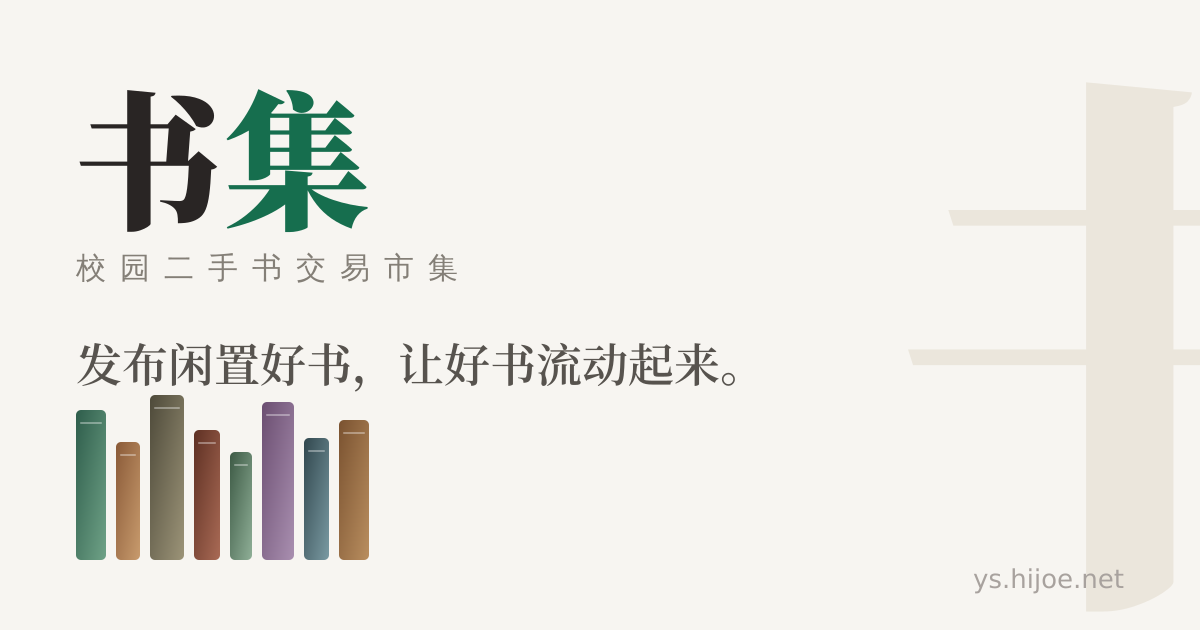
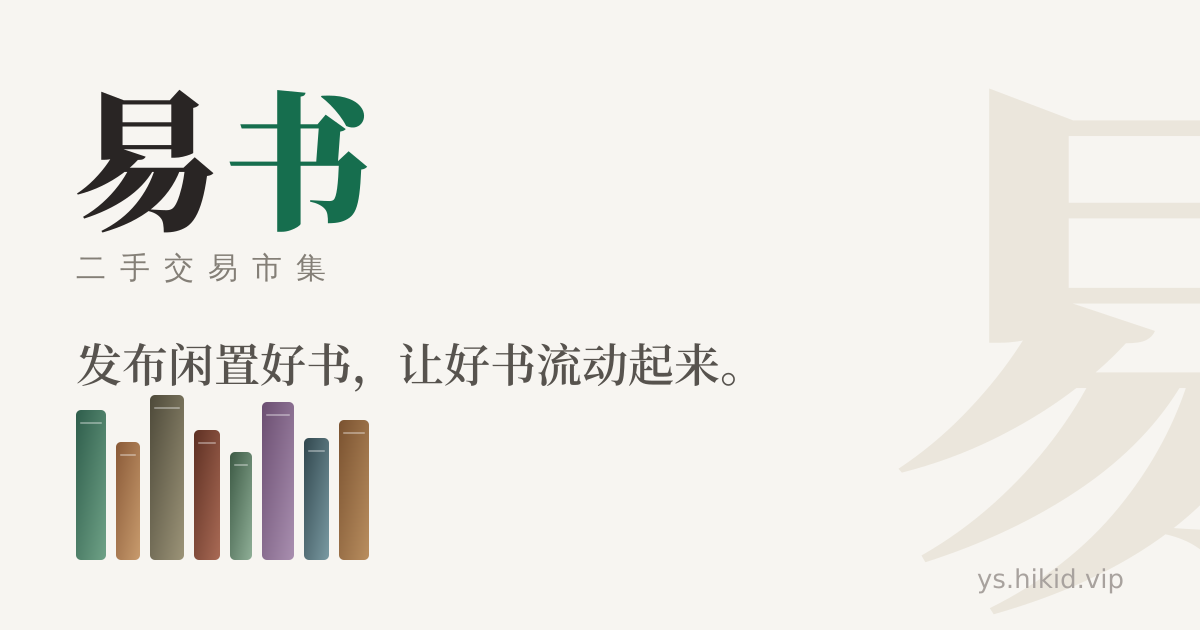
feat: 品牌更名「易书 · 二手交易市集」，分享域名统一至备案域名 ys.hikid.vip

Changed region(s): [[0.0617, 0.1206, 0.4008, 0.4524], [0.8017, 0.9048, 0.9558, 0.9349]]

diff --git a/src/app/book/[id]/page.tsx b/src/app/book/[id]/page.tsx
@@ -23,12 +23,12 @@ export async function generateMetadata({ params }: Props): Promise<Metadata> {
   const { id } = await params;
   const b = await fetchBook(id);
   if (!b || b.status !== "APPROVED") {
-    return { title: "书没找到 · 书集", robots: { index: false } };
+    return { title: "书没找到 · 易书", robots: { index: false } };
   }
-  const title = `《${b.title}》仅售 ¥${formatPrice(b.price)} · 书集`;
+  const title = `《${b.title}》仅售 ¥${formatPrice(b.price)} · 易书`;
   const desc = `${b.author} 著 · ${b.condition}${
     b.description ? ` · ${b.description.slice(0, 60)}` : ""
-  }。上书集联系书友，让好书流动起来。`;
+  }。上易书联系书友，让好书流动起来。`;
   const og = `/api/og/book/${b.id}`;
   return {
     title,
@@ -37,7 +37,7 @@ export async function generateMetadata({ params }: Props): Promise<Metadata> {
       title,
       description: desc,
       url: `/book/${b.id}`,
-      siteName: "书集",
+      siteName: "易书",
       type: "website",
       images: [{ url: og, width: 1200, height: 630, alt: `《${b.title}》` }],
     },
@@ -61,10 +61,10 @@ export default async function BookLanding({ params }: Props) {
         {/* 品牌行 */}
         <Link href="/" className="inline-flex items-baseline gap-2 pt-2">
           <span className="font-serif-sc text-[22px] font-bold leading-none tracking-wide text-stone-900">
-            书<span className="text-primary">集</span>
+            易<span className="text-primary">书</span>
           </span>
           <span className="text-[10px] tracking-[0.2em] text-stone-400">
-            校园二手书交易市集
+            二手交易市集
           </span>
         </Link>
 
@@ -139,13 +139,13 @@ export default async function BookLanding({ params }: Props) {
             className="flex h-12 w-full items-center justify-center gap-2 rounded-xl bg-primary text-[15px] font-semibold text-white shadow-sm transition-all hover:bg-primary/90 active:scale-[0.98]"
           >
             <BookOpen className="h-4 w-4" aria-hidden />
-            打开书集，联系书友
+            打开易书，联系书友
             <ArrowRight className="h-4 w-4" aria-hidden />
           </Link>
           <p className="mt-3 text-center text-xs leading-relaxed text-stone-400">
             微信内可点击右上角「···」把这本书转发给朋友
             <br />
-            交易请当面验书 · 书集 ys.hijoe.net
+            交易请当面验书 · 易书 ys.hikid.vip
           </p>
         </div>
       </div>

diff --git a/src/app/layout.tsx b/src/app/layout.tsx
@@ -4,13 +4,13 @@ import { Toaster } from "@/components/ui/sonner";
 
 export const metadata: Metadata = {
   metadataBase: new URL(
-    process.env.NEXT_PUBLIC_SITE_URL ?? "https://ys.hijoe.net"
+    process.env.NEXT_PUBLIC_SITE_URL ?? "https://ys.hikid.vip"
   ),
-  title: "书集 · 校园二手书交易市集",
+  title: "易书 · 二手交易市集",
   description:
-    "书集是一个简洁优雅的二手书交易系统：发布闲置好书、按分类浏览书单、复制微信号直接联系书友。让好书流动起来。",
-  keywords: ["二手书", "校园交易", "书籍买卖", "书集", "闲置书"],
-  authors: [{ name: "书集" }],
+    "易书是一个简洁优雅的二手交易市集：发布闲置好书、按分类浏览书单、复制微信号直接联系书友。让好书流动起来。",
+  keywords: ["二手书", "二手交易", "书籍买卖", "易书", "闲置书", "二手交易市集"],
+  authors: [{ name: "易书" }],
   icons: {
     icon: [
       { url: "/icon.png" },
@@ -19,22 +19,22 @@ export const metadata: Metadata = {
     apple: "/apple-touch-icon.png",
   },
   openGraph: {
-    title: "书集 · 校园二手书交易市集",
+    title: "易书 · 二手交易市集",
     description: "发布闲置好书，让好书流动起来。",
-    siteName: "书集",
+    siteName: "易书",
     type: "website",
     images: [
       {
         url: "/og-default.png",
         width: 1200,
         height: 630,
-        alt: "书集 · 校园二手书交易市集",
+        alt: "易书 · 二手交易市集",
       },
     ],
   },
   twitter: {
     card: "summary_large_image",
-    title: "书集 · 校园二手书交易市集",
+    title: "易书 · 二手交易市集",
     description: "发布闲置好书，让好书流动起来。",
     images: ["/og-default.png"],
   },

diff --git a/src/app/api/og/book/[id]/route.tsx b/src/app/api/og/book/[id]/route.tsx
@@ -9,7 +9,7 @@ export const dynamic = "force-dynamic";
 
 /**
  * 每本书的分享卡片图（1200×630）：
- * 渐变书封底 + 书名/作者/价格 + 书集品牌。
+ * 渐变书封底 + 书名/作者/价格 + 易书品牌。
  * 微信转发卡片与 og:image 均指向本路由。
  */
 
@@ -66,10 +66,10 @@ export async function GET(req: Request, { params }: Params) {
 
   const font = await loadFont(req);
   const [c1, c2] = gradientFor(id);
-  const title = ok ? clampTitle(book!.title, 18) : "书集";
+  const title = ok ? clampTitle(book!.title, 18) : "易书";
   const author = ok
     ? `${book!.author} 著 · ${book!.category}`
-    : "校园二手书交易市集";
+    : "二手交易市集";
 
   const el = (
     <div
@@ -102,7 +102,7 @@ export async function GET(req: Request, { params }: Params) {
       {/* 顶栏品牌 */}
       <div style={{ display: "flex", alignItems: "center", gap: 20 }}>
         <span style={{ fontSize: 44, fontWeight: 600, letterSpacing: 4 }}>
-          书集
+          易书
         </span>
         <span
           style={{
@@ -111,7 +111,7 @@ export async function GET(req: Request, { params }: Params) {
             color: "rgba(255,255,255,0.72)",
           }}
         >
-          校园二手书交易市集
+          二手交易市集
         </span>
       </div>
 
@@ -161,7 +161,7 @@ export async function GET(req: Request, { params }: Params) {
             color: "rgba(255,255,255,0.72)",
           }}
         >
-          书集 · 让好书流动起来
+          易书 · 让好书流动起来
         </span>
       </div>
     </div>

diff --git a/src/lib/share.ts b/src/lib/share.ts
@@ -15,6 +15,6 @@ export function isWeChat(): boolean {
 export function buildBookShare(book: Book) {
   const origin = typeof window === "undefined" ? "" : window.location.origin;
   const url = `${origin}/book/${book.id}`;
-  const text = `【书集】《${book.title}》仅售 ¥${formatPrice(book.price)}，快来看看`;
-  return { title: `书集 · ${book.title}`, text, url };
+  const text = `【易书】《${book.title}》仅售 ¥${formatPrice(book.price)}，快来看看`;
+  return { title: `易书 · ${book.title}`, text, url };
 }

diff --git a/src/app/page.tsx b/src/app/page.tsx
@@ -243,7 +243,7 @@ export default function Page() {
                 {/* 页脚 */}
                 <footer className="pb-32 pt-2 text-center sm:pb-28">
                   <p className="font-serif-sc text-xs tracking-[0.25em] text-stone-300">
-                    书集 · 二手书交易
+                    易书 · 二手交易市集
                   </p>
                   <p className="mt-1 text-[10px] text-stone-300">
                     {market.mode === "server"

diff --git a/src/components/publish-sheet.tsx b/src/components/publish-sheet.tsx
@@ -114,7 +114,7 @@ export function PublishSheet({ open, onOpenChange, profile, reviewRequired, onPu
         {
           description: reviewRequired
             ? `《${t}》审核通过后将上架展示，可在「我的发布」查看进度`
-            : `《${t}》已上架书集`,
+            : `《${t}》已上架易书`,
         }
       );
       resetForm();

diff --git a/src/app/book/[id]/not-found.tsx b/src/app/book/[id]/not-found.tsx
@@ -18,7 +18,7 @@ export default function BookNotFound() {
           href="/"
           className="mt-5 flex h-11 w-full items-center justify-center rounded-xl bg-primary text-sm font-semibold text-white transition-colors hover:bg-primary/90"
         >
-          返回书集市集
+          返回易书市集
         </Link>
       </div>
     </main>

diff --git a/scripts/seed.ts b/scripts/seed.ts
@@ -1,5 +1,5 @@
 /**
- * 向「书集」独立数据库 neon-shuji 灌入示例书籍数据（幂等，可重复执行）。
+ * 向「易书」独立数据库 neon-shuji 灌入示例书籍数据（幂等，可重复执行）。
  * 用法：bun scripts/seed.ts
  * 连接串：读取 SHUJI_DATABASE_URL（.env.local 或环境变量）
  */

diff --git a/scripts/switch-status.ts b/scripts/switch-status.ts
@@ -1,5 +1,5 @@
 /**
- * 书集数据库健康巡检（独立实例 frosty-rice / neon-shuji）：
+ * 易书数据库健康巡检（独立实例 frosty-rice / neon-shuji）：
  *   1. SHUJI_DATABASE_URL 连通性 + 当前库名
  *   2. 书籍总量 / 已售 / 审核状态分布
  * 用法：bun scripts/switch-status.ts

diff --git a/src/components/book-cover.tsx b/src/components/book-cover.tsx
@@ -67,7 +67,7 @@ export function BookCover({ bookId, title, author, cover, className, size = "sm"
         </p>
       ) : null}
       <span className="absolute bottom-2 right-2.5 font-serif-sc text-[9px] tracking-[0.3em] text-white/50">
-        书集
+        易书
       </span>
     </div>
   );

diff --git a/src/app/globals.css b/src/app/globals.css
@@ -41,7 +41,7 @@
   --radius-xl: calc(var(--radius) + 4px);
 }
 
-/* 「书集」主题：暖纸底色 + 墨绿主色 + 赭石价格色 */
+/* 「易书」主题：暖纸底色 + 墨绿主色 + 赭石价格色 */
 :root {
   --radius: 0.75rem;
   --background: #f7f5f1;

diff --git a/README.md b/README.md
@@ -1,8 +1,10 @@
-# 书集 · 校园二手书交易市集 📚
+# 易书 · 二手交易市集 📚
 
-一个**简洁优雅**的二手书交易系统，专为**微信内打开**而设计：暖纸色底、衬线书名排版、双列卡片瀑布流，全屏适配移动端，也优雅支持桌面端浏览。
+一个**简洁优雅**的二手交易市集，专为**微信内打开**而设计：暖纸色底、衬线书名排版、双列卡片瀑布流，全屏适配移动端，也优雅支持桌面端浏览。
 
-**线上地址**：https://shuji-book-market.vercel.app
+**线上地址**：https://ys.hikid.vip（已备案域名）
+
+> 备用地址 https://shuji-book-market.vercel.app 会自动 308 跳转到主域名。
 
 ## ✨ 功能
 
@@ -12,6 +14,7 @@
 | 📇 卡片式浏览 | 双列书卡（移动端）、封面缺省时自动生成渐变素书封 |
 | 📕 书籍详情 | 底部抽屉呈现：价格/成色/分类/描述/卖家信息，一键复制微信号联系 |
 | ➕ 发布闲置 | 上传实拍图（自动压缩）或自动生成书封；发布前引导完善昵称/微信号 |
+| 🔗 微信分享 | 每本书独立落地页 `/book/[id]` + 动态分享卡片图，转发卡片有品牌图与书籍信息，好友点开直达该书 |
 | ❤ 收藏 | 心动好书一键收藏（保存在本机） |
 | 👤 我的 | 资料编辑、我的发布（标记已售/重新上架/删除、审核进度徽标）、我的收藏 |
 | 🛡 管理员审核 | 口令登录管理面板：待审核/已上架/未通过三态流转，驳回可附原因；新发布书籍经审核后上架 |
@@ -98,13 +101,16 @@ src/
 ├── app/
 │   ├── api/books/          # REST API：列表/发布/售出/删除（所有者校验 + 市集审核过滤）
 │   ├── api/admin/          # 管理员：登录/会话/全量书单/审核操作（口令 + 签名 Cookie）
+│   ├── api/og/book/        # 每本书的动态分享卡片图（Satori 渲染，微信转发缩略图）
+│   ├── book/[id]/          # 书籍落地页（分享直达 + 独立标题/og:image，未上架返回 404）
 │   ├── layout.tsx          # 全局元信息 / 微信 viewport / Toaster
 │   ├── page.tsx            # 主页面（首页 + 我的，视图切换）
-│   └── globals.css         # 书集主题（暖纸/墨绿/赭石）+ 中文衬线字体
+│   └── globals.css         # 易书主题（暖纸/墨绿/赭石）+ 中文衬线字体
 ├── components/
 │   ├── book-card.tsx       # 书卡（双列网格）
 │   ├── book-cover.tsx      # 封面（图片 or 自动渐变素书封）
 │   ├── detail-sheet.tsx    # 详情抽屉（联系卖家/收藏/分享/管理/审核进度提示）
+│   ├── share-guide.tsx     # 微信内「···」转发引导浮层（微信外 navigator.share 兑底）
 │   ├── publish-sheet.tsx   # 发布抽屉（图片压缩 + 表单 + 资料引导）
 │   ├── admin-sheet.tsx     # 管理员审核面板（登录/三态流转/驳回原因）
 │   ├── profile-page.tsx    # 我的（资料/发布/收藏管理 + 审核徽标 + 管理员入口）
@@ -118,11 +124,13 @@ src/
     ├── db.ts               # 连接解析（仅认 SHUJI_*）+ Prisma 惰性单例
     ├── seed.ts             # 示例书籍数据与工具函数
     ├── image.ts            # 封面压缩 / 剪贴板
+    ├── share.ts            # 分享文案与落地链接（微信环境检测）
     └── types.ts            # 领域模型（含 BookStatus）
 prisma/schema.prisma        # Book 模型（status/reviewNote/reviewedAt）
 scripts/seed.ts             # 幂等种子脚本
 scripts/switch-status.ts    # 数据库健康巡检
 scripts/approve-existing.ts # 一次性：存量书放行为 APPROVED
+scripts/build-share-assets.mjs # 生成品牌分享图/图标（改名或换域名后重跑）
 ```
 
 ## License
